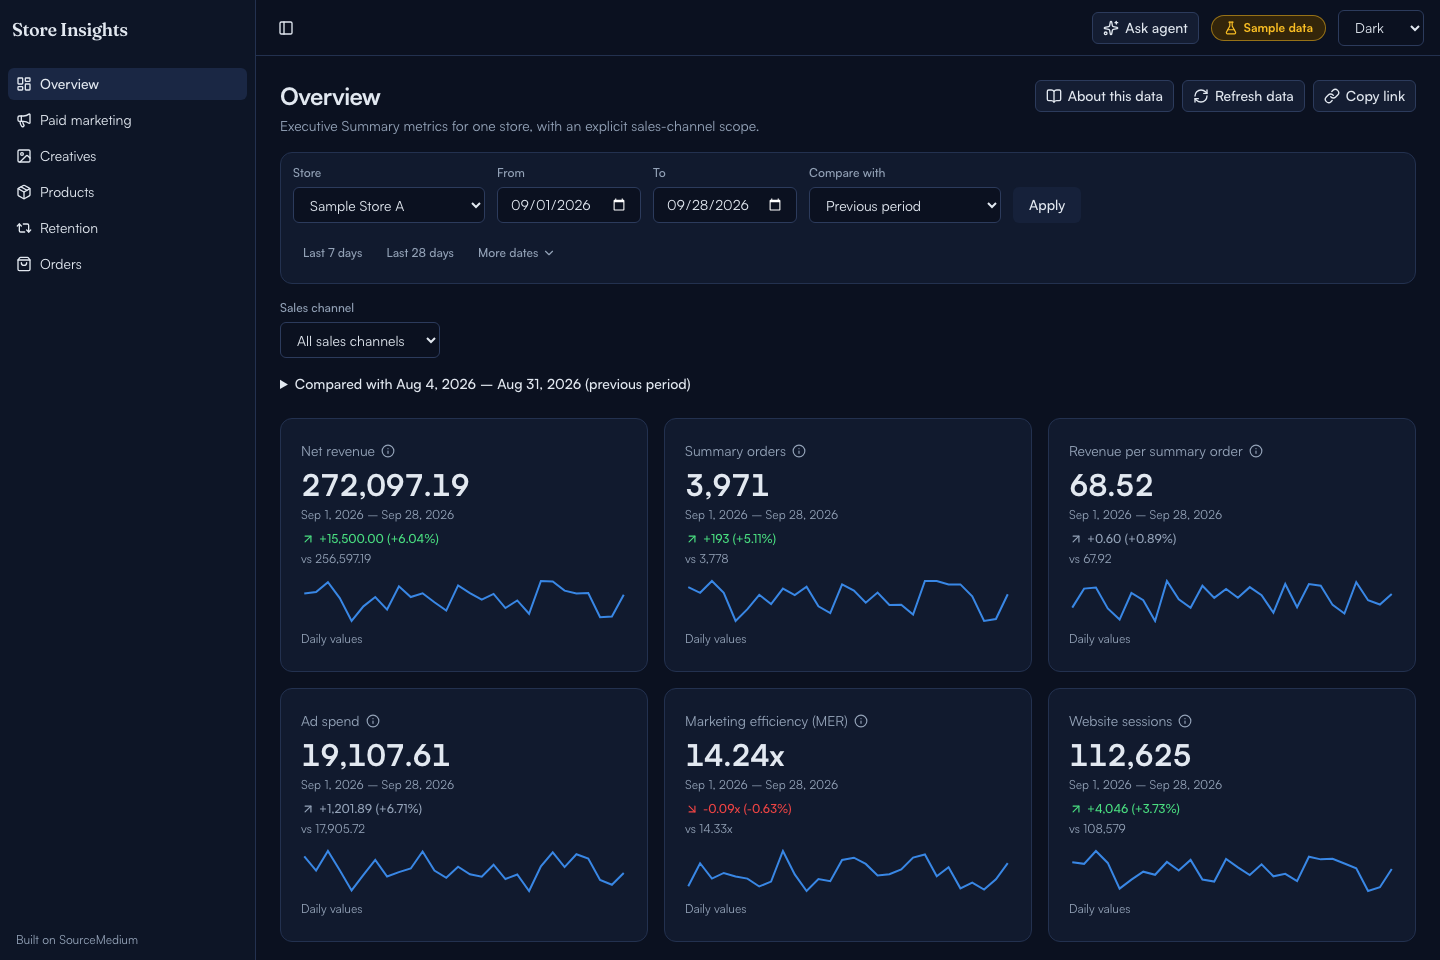
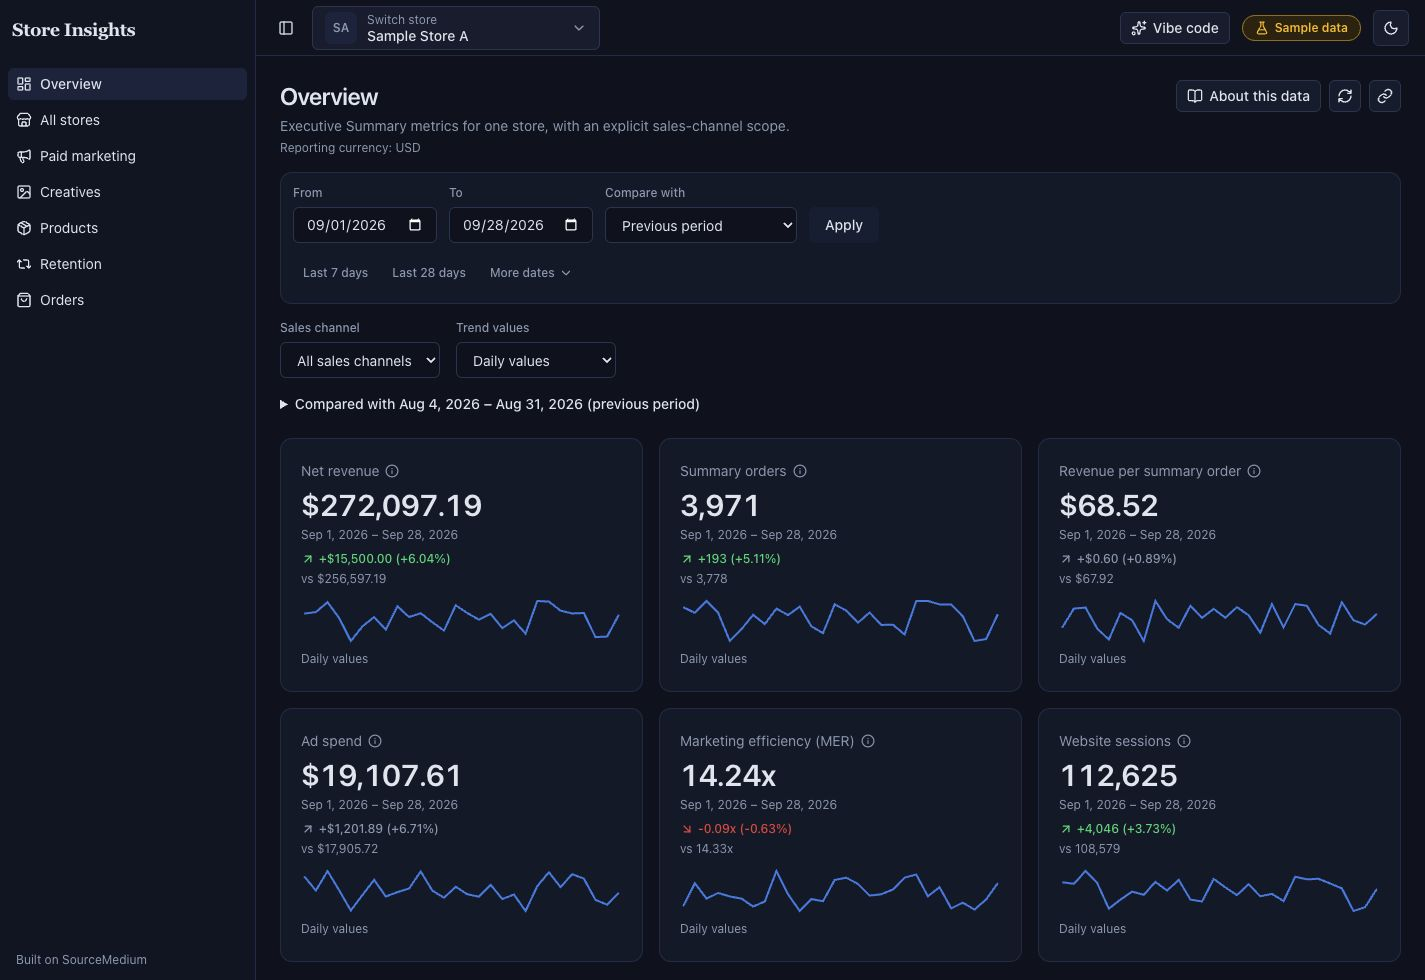
Refresh README and product screenshots

diff --git a/README.md b/README.md
@@ -1,175 +1,149 @@
 # SourceMedium App Starter
 
-**Your SourceMedium data. An app you own. Built with your coding agent.**
+**Your warehouse, your dashboard, your code.**
 
-Start with six working reports, connect your warehouse, then tell Codex or
-Claude Code what to change. The starter handles the connection, sign-in,
-store and date filters, charts, tables, and loading and error states.
-You get a normal Next.js app with editable code throughout.
+A Next.js app for exploring your SourceMedium data. Start with seven reports,
+then work with Codex or Claude Code to make them your own. Store switching,
+comparisons, ad-name filters, light and dark modes, and viewer sign-in are built in.
 
-**[Try the demo](https://sm-app-starter-demo.source-medium.workers.dev)** ·
-[Deploy on Cloudflare](docs/cloud.md) ·
-[Browser agent setup](docs/cloud.md#optional-browser-coding-agents)
+**[Open the demo](https://sm-app-starter-demo.source-medium.workers.dev)** ·
+[Run locally](#run-it-locally) ·
+[Deploy on Cloudflare](docs/cloud.md)
 
 <picture>
   <source media="(prefers-color-scheme: dark)" srcset="docs/images/overview-dark.png">
   <source media="(prefers-color-scheme: light)" srcset="docs/images/overview-light.png">
-  <img alt="Overview dashboard with store and date filters, period comparisons, revenue and order KPIs, and trend charts." src="docs/images/overview-light.png" width="1440">
+  <img alt="Overview in Store Insights: six headline metrics with sparklines, period comparisons, and the store switcher." src="docs/images/overview-light.png" width="1440">
 </picture>
 
-_The hosted demo uses SourceMedium's demo warehouse and requires sign-in ([request access](mailto:support@sourcemedium.com)). These screenshots use synthetic sample data. Light and dark modes are built in._
+_All screenshots use synthetic sample data. The hosted demo reads SourceMedium's
+demo warehouse and requires sign-in: [request demo access](mailto:support@sourcemedium.com)._
 
-## Start with your coding agent
+## Run it locally
 
-Ask local Codex or Claude Code to follow the [starter message](docs/cloud.md#your-first-message-in-either-agent).
-Your agent prepares the app and connects it once:
-
-1. **Cloudflare Artifacts** stores your app's Git repository.
-2. **Workers Builds** checks each push and creates protected branch previews.
-3. Approve a reviewed change; pushing it to `main` checks and deploys it automatically.
-
-GitHub and GitHub Actions are not required for this path. Artifacts is in open
-beta on Workers Paid, with [usage allowances](https://developers.cloudflare.com/artifacts/platform/pricing/).
-An existing GitHub repository can also connect directly to Workers Builds.
-[Browser-based Codex or Claude](docs/cloud.md#optional-browser-coding-agents)
-can use that optional source-hosting path with the same Cloudflare release gate.
-
-The first look uses labeled **sample data** without warehouse credentials.
-Connect your warehouse and protected previews once, then review changes on
-your actual data. Your agent handles setup and checks; you sign in, enter
-credentials privately and approve publication.
-
-**[Follow the setup and preview-to-live guide →](docs/cloud.md)**
-
-## Reports to make your own
-
-| Report             | Start with                                                      |
-| ------------------ | --------------------------------------------------------------- |
-| **Overview**       | Revenue, orders, ad spend, trends, and period comparisons       |
-| **All stores**     | Store-by-store performance, period changes, and drill-through   |
-| **Paid marketing** | Channel and campaign performance, spend, and return on ad spend |
-| **Creatives**      | Creative images and performance cards                           |
-| **Products**       | Product and variant rankings                                    |
-| **Retention**      | Retention and lifetime value by acquisition cohort              |
-| **Orders**         | Searchable orders with detail drawers and pagination            |
-
-Copy the closest view, change its query and presentation, or
-[remove the examples](docs/removing-the-example.md). Each view owns its code.
-
-<details>
-<summary><strong>See the retention report</strong></summary>
-
-![Retention report showing monthly acquisition cohorts and lifetime value, using synthetic sample data.](docs/images/retention.png)
-
-Completed-month windows, acquisition-channel filters, and explicit missing-data
-states keep cohort comparisons readable.
-
-</details>
-
-## Prefer local development?
-
-Install Node.js 22.22.1 or newer (CI uses 24) and pnpm 10.34.5 first. Create your
-project by cloning this public starter, then open a terminal in that folder.
-No GitHub account is needed to clone it. Connect your own remote using the
-[Cloudflare setup](docs/cloud.md#1-make-your-copy) before publishing.
+Use Node.js 22.22.1 or newer and pnpm 10.34.5. CI uses Node 24.
 
 ```sh
+git clone https://github.com/source-medium/sm-app-template.git my-data-app
+cd my-data-app
 pnpm install --frozen-lockfile
 pnpm dev
 ```
 
-Open http://127.0.0.1:3000. It runs on clearly labeled **sample data**: no
-account, credential, database, or AI service needed.
+Open **http://127.0.0.1:3000**. Sample data works immediately, with no credentials,
+database setup, or AI API key. To start with your coding agent instead, use the
+[setup prompt](docs/cloud.md#your-first-message-in-either-agent).
 
-## Use your data
+## One store, or the whole portfolio
 
-Live data needs an app configuration block from the **Apps** page of your
-SourceMedium workspace. Apps appears in the workspace menu once your data has
-been delivered, and an organization admin creates the app. If the page says
-credentials are still being enabled, stay on sample data and ask
-[SourceMedium support](SUPPORT.md). Do not substitute an admin credential.
+Search by store name, domain, brand, or ID. Names and available logos come from
+your warehouse; missing names fall back to a domain or store ID. Open **All stores**
+to compare performance, then select a store to investigate a change. Each store's
+currency stays visible, with no combined totals across currencies.
 
-For an already provisioned app, follow [docs/connect.md](docs/connect.md).
-Cloudflare Workers is the tested runtime.
+![All stores report with the searchable store picker open, showing brand groups, store domains, and separate performance rows.](docs/images/stores.png)
 
-## Build with your coding agent
+## Put your naming conventions to work
 
-Codex and Claude Code share [AGENTS.md](AGENTS.md) and the same repository
-skills. Cursor and Copilot can follow those instructions too. Sample work
-uses bundled schemas without an MCP login. To let the agent debug real queries,
-reuse the [Development credential](docs/cloud.md#debug-with-live-data) from your
-hosted previews in its private environment settings. It can run connection,
-schema and live checks itself. Production keeps its own credential.
-An authorized SourceMedium MCP connection is another option for data inspection.
+In **Paid marketing** and **Creatives**, filter campaign, ad set, or ad names by
+text you already use, such as `[retargeting]`. Combine contains, does not contain,
+equals, and starts with rules. Inspect matching names before interpreting the
+results. The app treats your text literally; there is no tag taxonomy to configure.
 
-**Point to a page or component. Describe the change. Copy the prompt.**
-The built-in **Vibe code** panel includes the current page, applied filters,
-and selected component so your agent starts with useful context. Use **Pick an
-element** to point to a chart, KPI, table, or filter. Paste the
-prompt into Codex, Claude Code, or another agent working in your repository.
+![Creative cards filtered to campaign names containing “[retargeting]”, with spend, impressions, click-through rate, and conversions.](docs/images/creatives.png)
 
-![Vibe code panel composing a change request for an Overview chart, with the page and filters included automatically.](docs/images/ask-agent.png)
+Filters travel with the report link. Creative metrics reflect the matching
+ad delivery, including when one creative appears in several campaigns.
 
-More copyable starting points are in [docs/prompts.md](docs/prompts.md).
+## Point. Describe. Vibe code.
 
-Before calling a change done, run:
+Open **Vibe code**, choose **Pick an element**, and describe what should change.
+The panel prepares a prompt with the current page, applied filters, and selected
+element. Copy it into Codex, Claude Code, or another agent working in your repo.
+Code changes happen in your coding agent; the dashboard prepares the context.
+
+![Vibe code panel with a creative card selected and a request to add cost per conversion, ready to copy into a coding agent.](docs/images/vibe-code.png)
+
+The repo includes shared [agent instructions](AGENTS.md), skills for adding pages,
+querying data and deploying, and [starter prompts](docs/prompts.md).
+
+## Reports to make your own
+
+| Report             | What you can explore                                       |
+| ------------------ | ---------------------------------------------------------- |
+| **Overview**       | Revenue, orders, ad spend, trends, and period comparisons  |
+| **All stores**     | Store-by-store performance, changes, and drill-through     |
+| **Paid marketing** | Channel and campaign performance, spend, and platform ROAS |
+| **Creatives**      | Ad images, delivery, and platform-reported returns         |
+| **Products**       | Product and variant rankings                               |
+| **Retention**      | Repeat purchases and lifetime value by acquisition cohort  |
+| **Orders**         | Order search, detail drawers, and pagination               |
+
+<details>
+<summary><strong>See the retention report</strong></summary>
+
+![Retention report with monthly acquisition cohorts, retention curves, and a cohort matrix, using synthetic sample data.](docs/images/retention.png)
+
+Compare cohorts at the same age, filter acquisition channels, and switch the
+matrix between retention, repeat purchase, revenue, and gross profit measures.
+
+</details>
+
+Each view owns its queries, sample data, and presentation. Copy the closest one
+or [remove the examples](docs/removing-the-example.md). Rebrand in
+[`app.config.ts`](app.config.ts) and [`src/styles/tokens.css`](src/styles/tokens.css).
+
+## Connect once, preview each change
+
+Your agent follows the [Cloudflare guide](docs/cloud.md) to connect the app and
+set up automatic deployments:
+
+1. **Connect your data.** An organization admin creates an app in your SourceMedium
+   workspace's **Apps** page. Enter its configuration block privately.
+2. **Choose who can view it.** Use a shared password for a small trusted group,
+   or Cloudflare Access for individual sign-in. Your agent helps you choose.
+3. **Review a preview.** Push a task branch to run the checks and build a protected
+   preview against your data. Approve the change, then push `main` to deploy.
+
+The default path uses **Cloudflare Artifacts + Workers Builds**. GitHub is
+optional. Workers Paid is required; see the guide for Artifacts availability and
+[current costs](docs/cloud.md).
+
+If Apps says credentials are still being enabled, keep working with sample data
+and contact [SourceMedium support](SUPPORT.md). Do not use an admin credential.
+
+Every viewer of a deployment sees the same data. For separate store audiences,
+use separate deployments with `APP_STORE_ID`. See [sign-in and store access](docs/auth.md).
+
+## Built to keep editing
+
+Ordinary Next.js, React, and TypeScript. shadcn/ui components, Tailwind tokens,
+and Recharts are included in the repo. There is no proprietary dashboard editor.
+
+- **Shareable views:** store, dates, and report filters live in the URL.
+- **Readable data:** metric definitions, chart-to-table toggles, CSV exports where
+  available, and explicit loading, empty, and error states.
+- **Server-side queries:** typed SQL parameters, exact decimal handling, bounded
+  results, and viewer guards.
+- **Checks included:** lint, types, data contracts, store scope, Node and Worker
+  tests, and browser accessibility checks.
 
 ```sh
-pnpm check   # format, lint, types, guardrails, and tests; under a minute
+pnpm check      # Format, lint, types, guardrails, and unit tests
+pnpm test:e2e   # Production build and browser tests
 ```
 
-## Who can see what
+| Guide                               | Read it when you need to…                                   |
+| ----------------------------------- | ----------------------------------------------------------- |
+| [Cloud setup](docs/cloud.md)        | Set up source hosting, previews, and automatic deploys      |
+| [Data connection](docs/connect.md)  | Connect a warehouse or replace a configuration block        |
+| [Queries and metrics](docs/data.md) | Work with schemas, SQL, money, dates, and freshness         |
+| [Sign-in and access](docs/auth.md)  | Choose a viewer guard or restrict a deployment to one store |
+| [Operations](docs/operations.md)    | Diagnose errors, rotate secrets, or roll back a release     |
+| [Agent prompts](docs/prompts.md)    | Add a report, change a component, or check a number         |
 
-Every viewer of a deployment sees the same data. Use `APP_STORE_ID` and
-separate deployments for stores with different audiences. Different permissions
-for individual viewers within one deployment need an authorization design this
-starter does not include. See [docs/auth.md](docs/auth.md).
+**0.1.0 preview.** The tested hosting target is Cloudflare Workers. Fresh-account
+onboarding and self-service credential issuance still need end-to-end verification.
+See [release evidence and remaining checks](docs/release-readiness.md).
 
-## Guides
-
-| Guide                                                   | For                                                           |
-| ------------------------------------------------------- | ------------------------------------------------------------- |
-| [cloud.md](docs/cloud.md)                               | Cloudflare source, automatic deploys, previews, coding agents |
-| [connect.md](docs/connect.md)                           | Going live, deploying, replacing lost secrets                 |
-| [data.md](docs/data.md)                                 | Schemas, SQL rules, exact decoding, money, freshness          |
-| [auth.md](docs/auth.md)                                 | The shared password, Cloudflare Access, sign-in               |
-| [operations.md](docs/operations.md)                     | Rotation, query allowances, errors and remedies               |
-| [removing-the-example.md](docs/removing-the-example.md) | Deleting one example view or all six                          |
-| [prompts.md](docs/prompts.md)                           | Starter prompts for your agent                                |
-
-## Conventions you can build on
-
-- **Connect once:** one app-specific configuration block; warehouse queries
-  stay on the server and the chosen viewer guard protects every view.
-- **Copy a view:** each feature owns its query, row schema, sample data and UI.
-  Store and date filters stay in the URL; Retention uses a completed-month window.
-- **Multiple stores:** names and brand groups load from `dim_stores`; each store
-  keeps a shareable `?store=<sm_store_id>` URL. No manual store list required.
-- **Separate store audiences:** optional `APP_STORE_ID` locks a deployment to
-  one store. Give it its own URL and viewer guard; see [the setup](docs/auth.md#one-deployment-per-store).
-- **Keep data trustworthy:** typed SQL parameters, exact money values, bounded
-  queries and clear errors are built in.
-- **Make it yours:** edit `app.config.ts` and `src/styles/tokens.css` to rebrand;
-  reuse the chart, table and card patterns when adding pages.
-
-Viewers can choose Light, Dark, or System in the top bar. **Copy link** shares
-the applied store, date range, and view filters with another authorized viewer;
-it does not freeze the underlying data. Overview's info icons explain each KPI.
-**Refresh data** reloads the current report with its applied filters. Each
-successfully loaded section shows its query time; warehouse freshness remains
-unknown. Reports do not refresh automatically.
-
-SourceMedium maintains the connection and integration patterns. Your agent
-works with ordinary feature code when extending your copy.
-
-## Stack
-
-Next.js (App Router) on Cloudflare Workers through OpenNext ·
-React · strict TypeScript · shadcn/ui on Tailwind CSS · Recharts · Zod ·
-jose · Vitest (Node and workerd) · Playwright with axe.
-
-This is the 0.1.0 preview. Cloudflare Workers Paid is the deployment target.
-No stable release has been tagged yet. The fresh-account cloud journey and
-Apps credential issuance have not been verified end to end.
-
-[License](LICENSE) · [Security](SECURITY.md) · [Support](SUPPORT.md) · [Contributing](CONTRIBUTING.md)
+[MIT license](LICENSE) · [Security](SECURITY.md) · [Support](SUPPORT.md) · [Contributing](CONTRIBUTING.md)

diff --git a/CONTRIBUTING.md b/CONTRIBUTING.md
@@ -11,7 +11,7 @@ The release checks below are maintainer work, not customer onboarding steps.
 
 ## Development
 
-Follow [local setup](README.md#prefer-local-development) for Node.js and pnpm prerequisites.
+Follow [local setup](README.md#run-it-locally) for Node.js and pnpm prerequisites.
 
 ```sh
 pnpm install --frozen-lockfile
@@ -33,6 +33,18 @@ Both deployment commands run it before uploading, so Cloudflare Builds owns
 release validation even without GitHub. The GitHub workflow provides optional
 maintainer feedback and Windows coverage. Live checks are opt-in and
 never run in CI; use only SourceMedium's demo tenant for template validation.
+
+## README screenshots
+
+Capture the running app with **Sample data** visible. Never use warehouse data
+in public screenshots. Keep the light and dark Overview images on the same
+store and dates; the current set uses Sample Store A, September 1–28, 2026,
+with the previous-period comparison.
+
+The other images show the All stores picker, Creatives filtered by campaign
+name containing `[retargeting]`, a Vibe code request with a selected card, and
+Retention through September 2026. Save captures in `docs/images/`, check the
+README image links and alt text, and remove any images no longer referenced.
 
 ## Rules for changes
 

diff --git a/docs/release-readiness.md b/docs/release-readiness.md
@@ -11,7 +11,7 @@ require the maintainer's explicit authorization.
 
 ## Permanent hosted demo (2026-10-09)
 
-The [hosted demo](https://sm-app-starter-demo.source-medium.workers.dev) runs
+The [hosted demo](https://sm-app-starter-demo.source-medium.workers.dev) was verified at
 application commit `1298eace39bd9c3e0d585d24778e23651d3ab1c6` against the
 `sm-democo` warehouse, behind the existing demo viewer password. Its runtime
 configuration is encrypted, `APP_REQUIRE_LIVE=true` prevents sample fallback,
